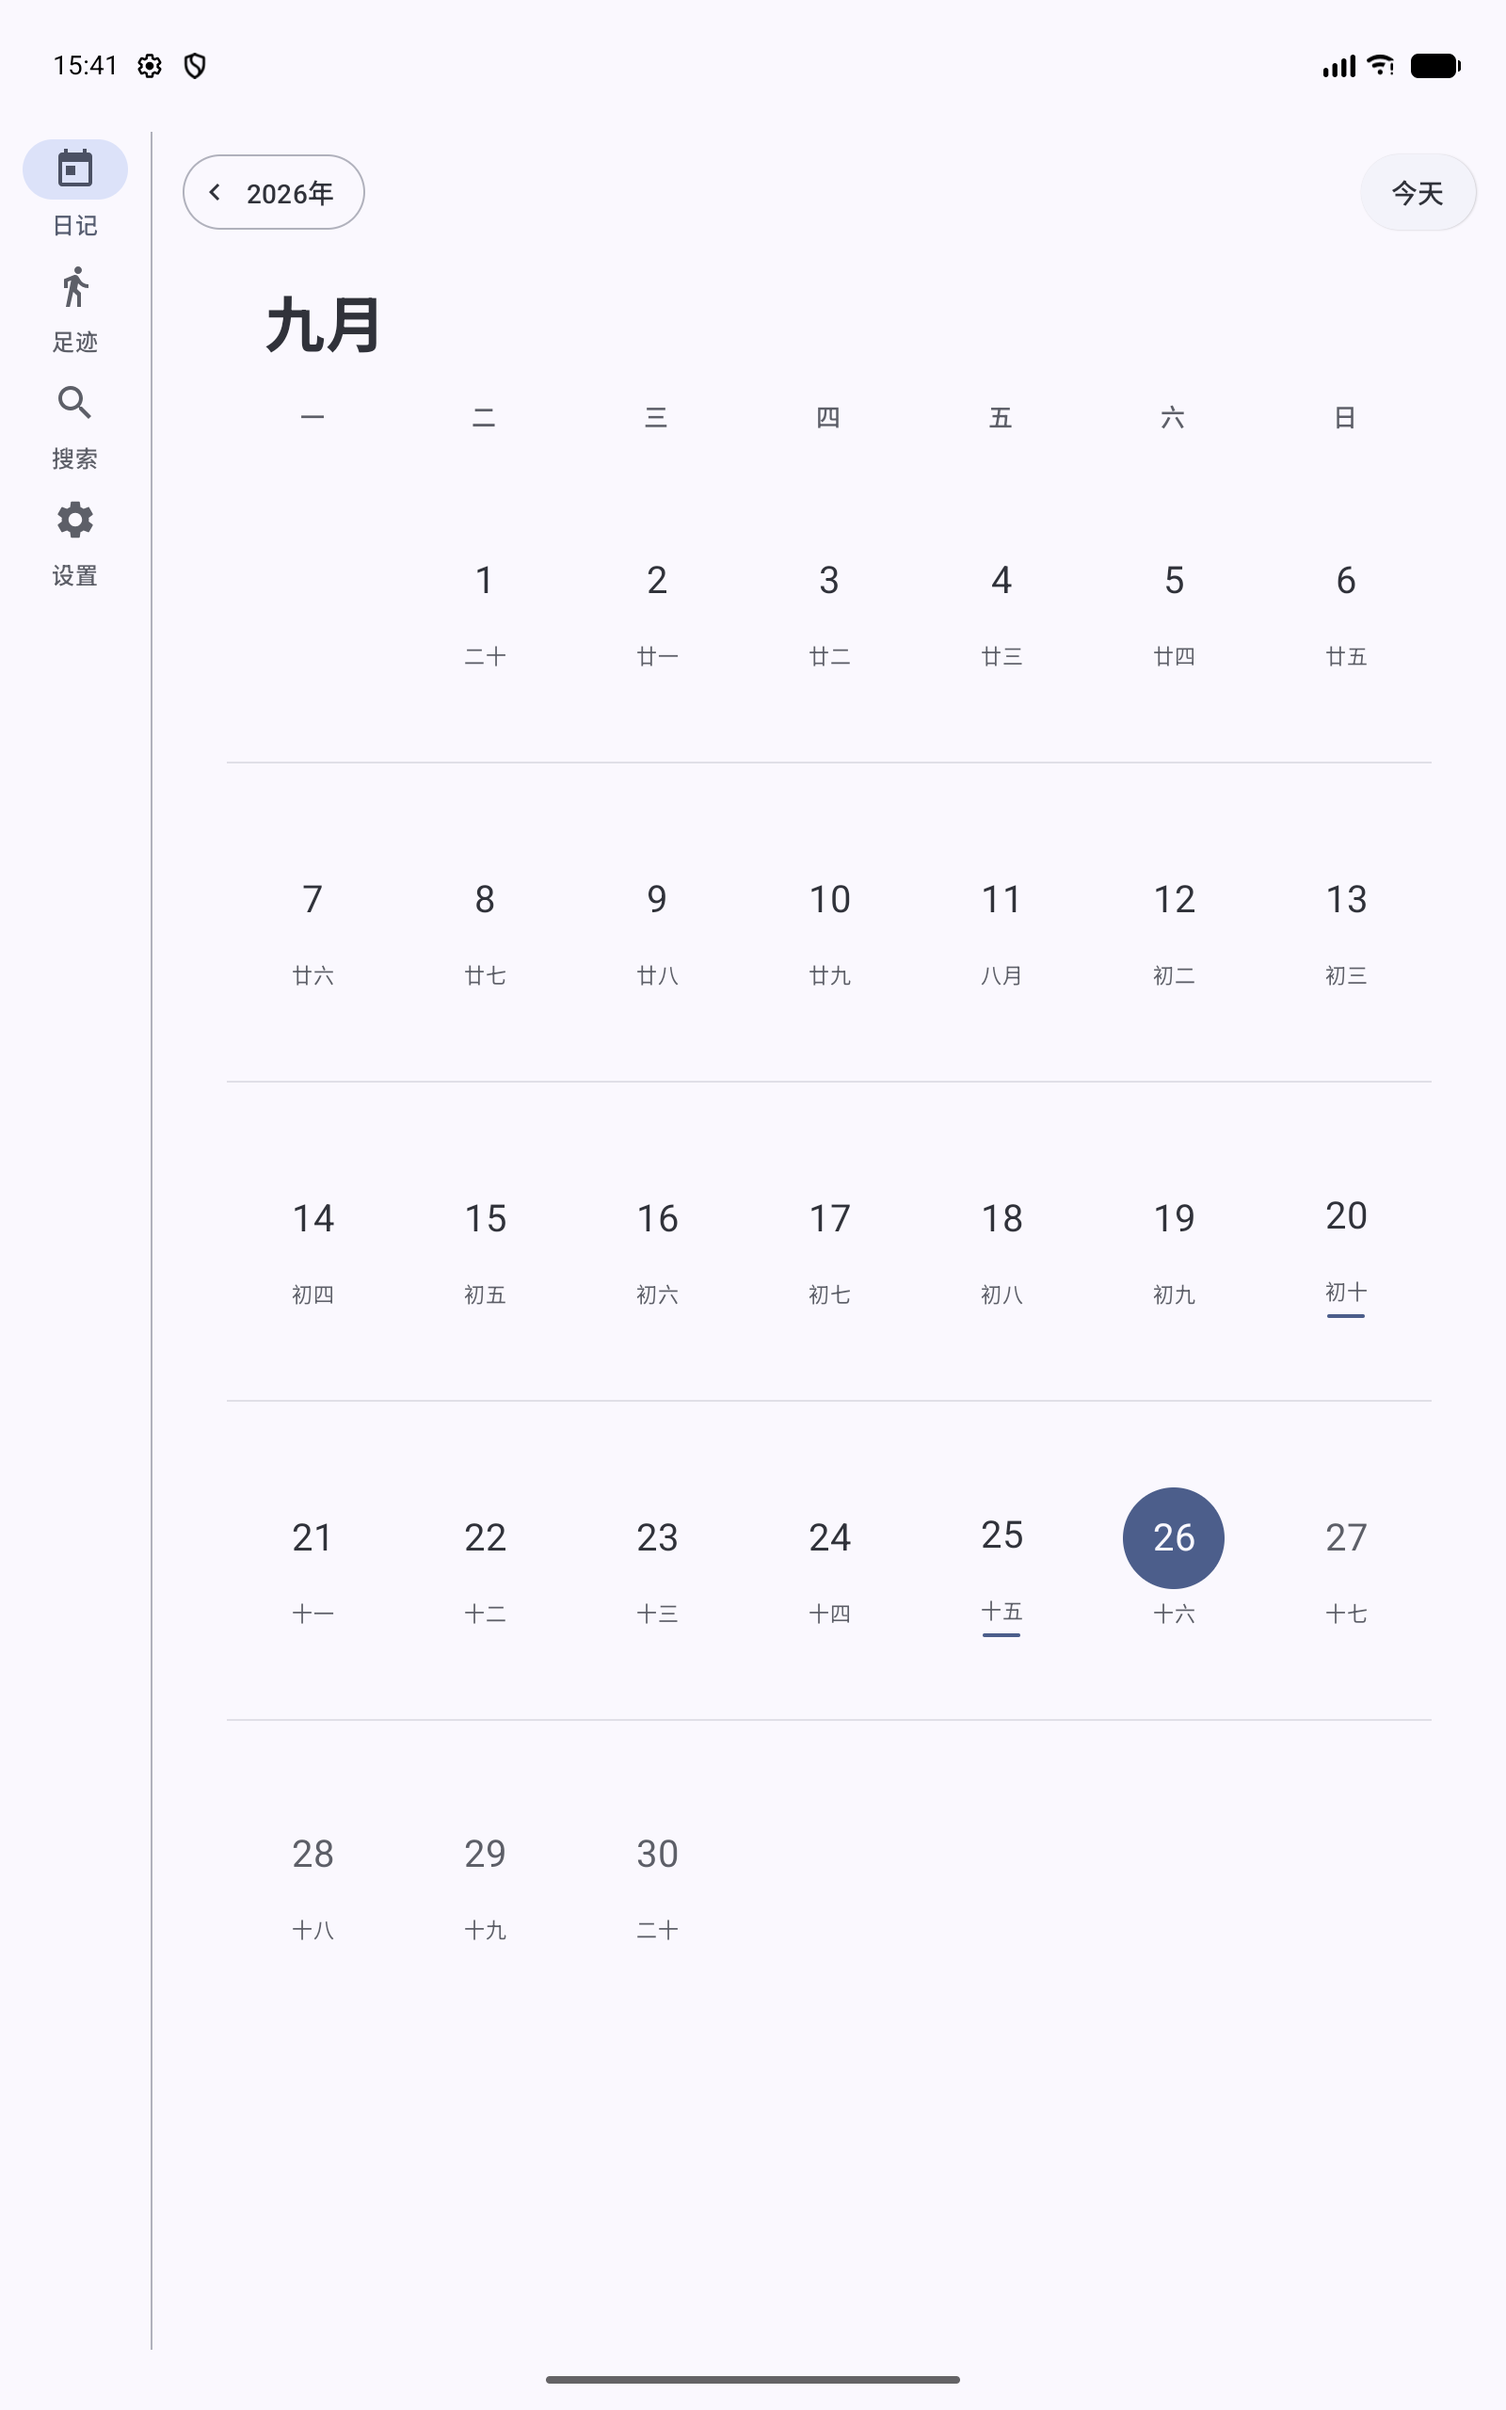
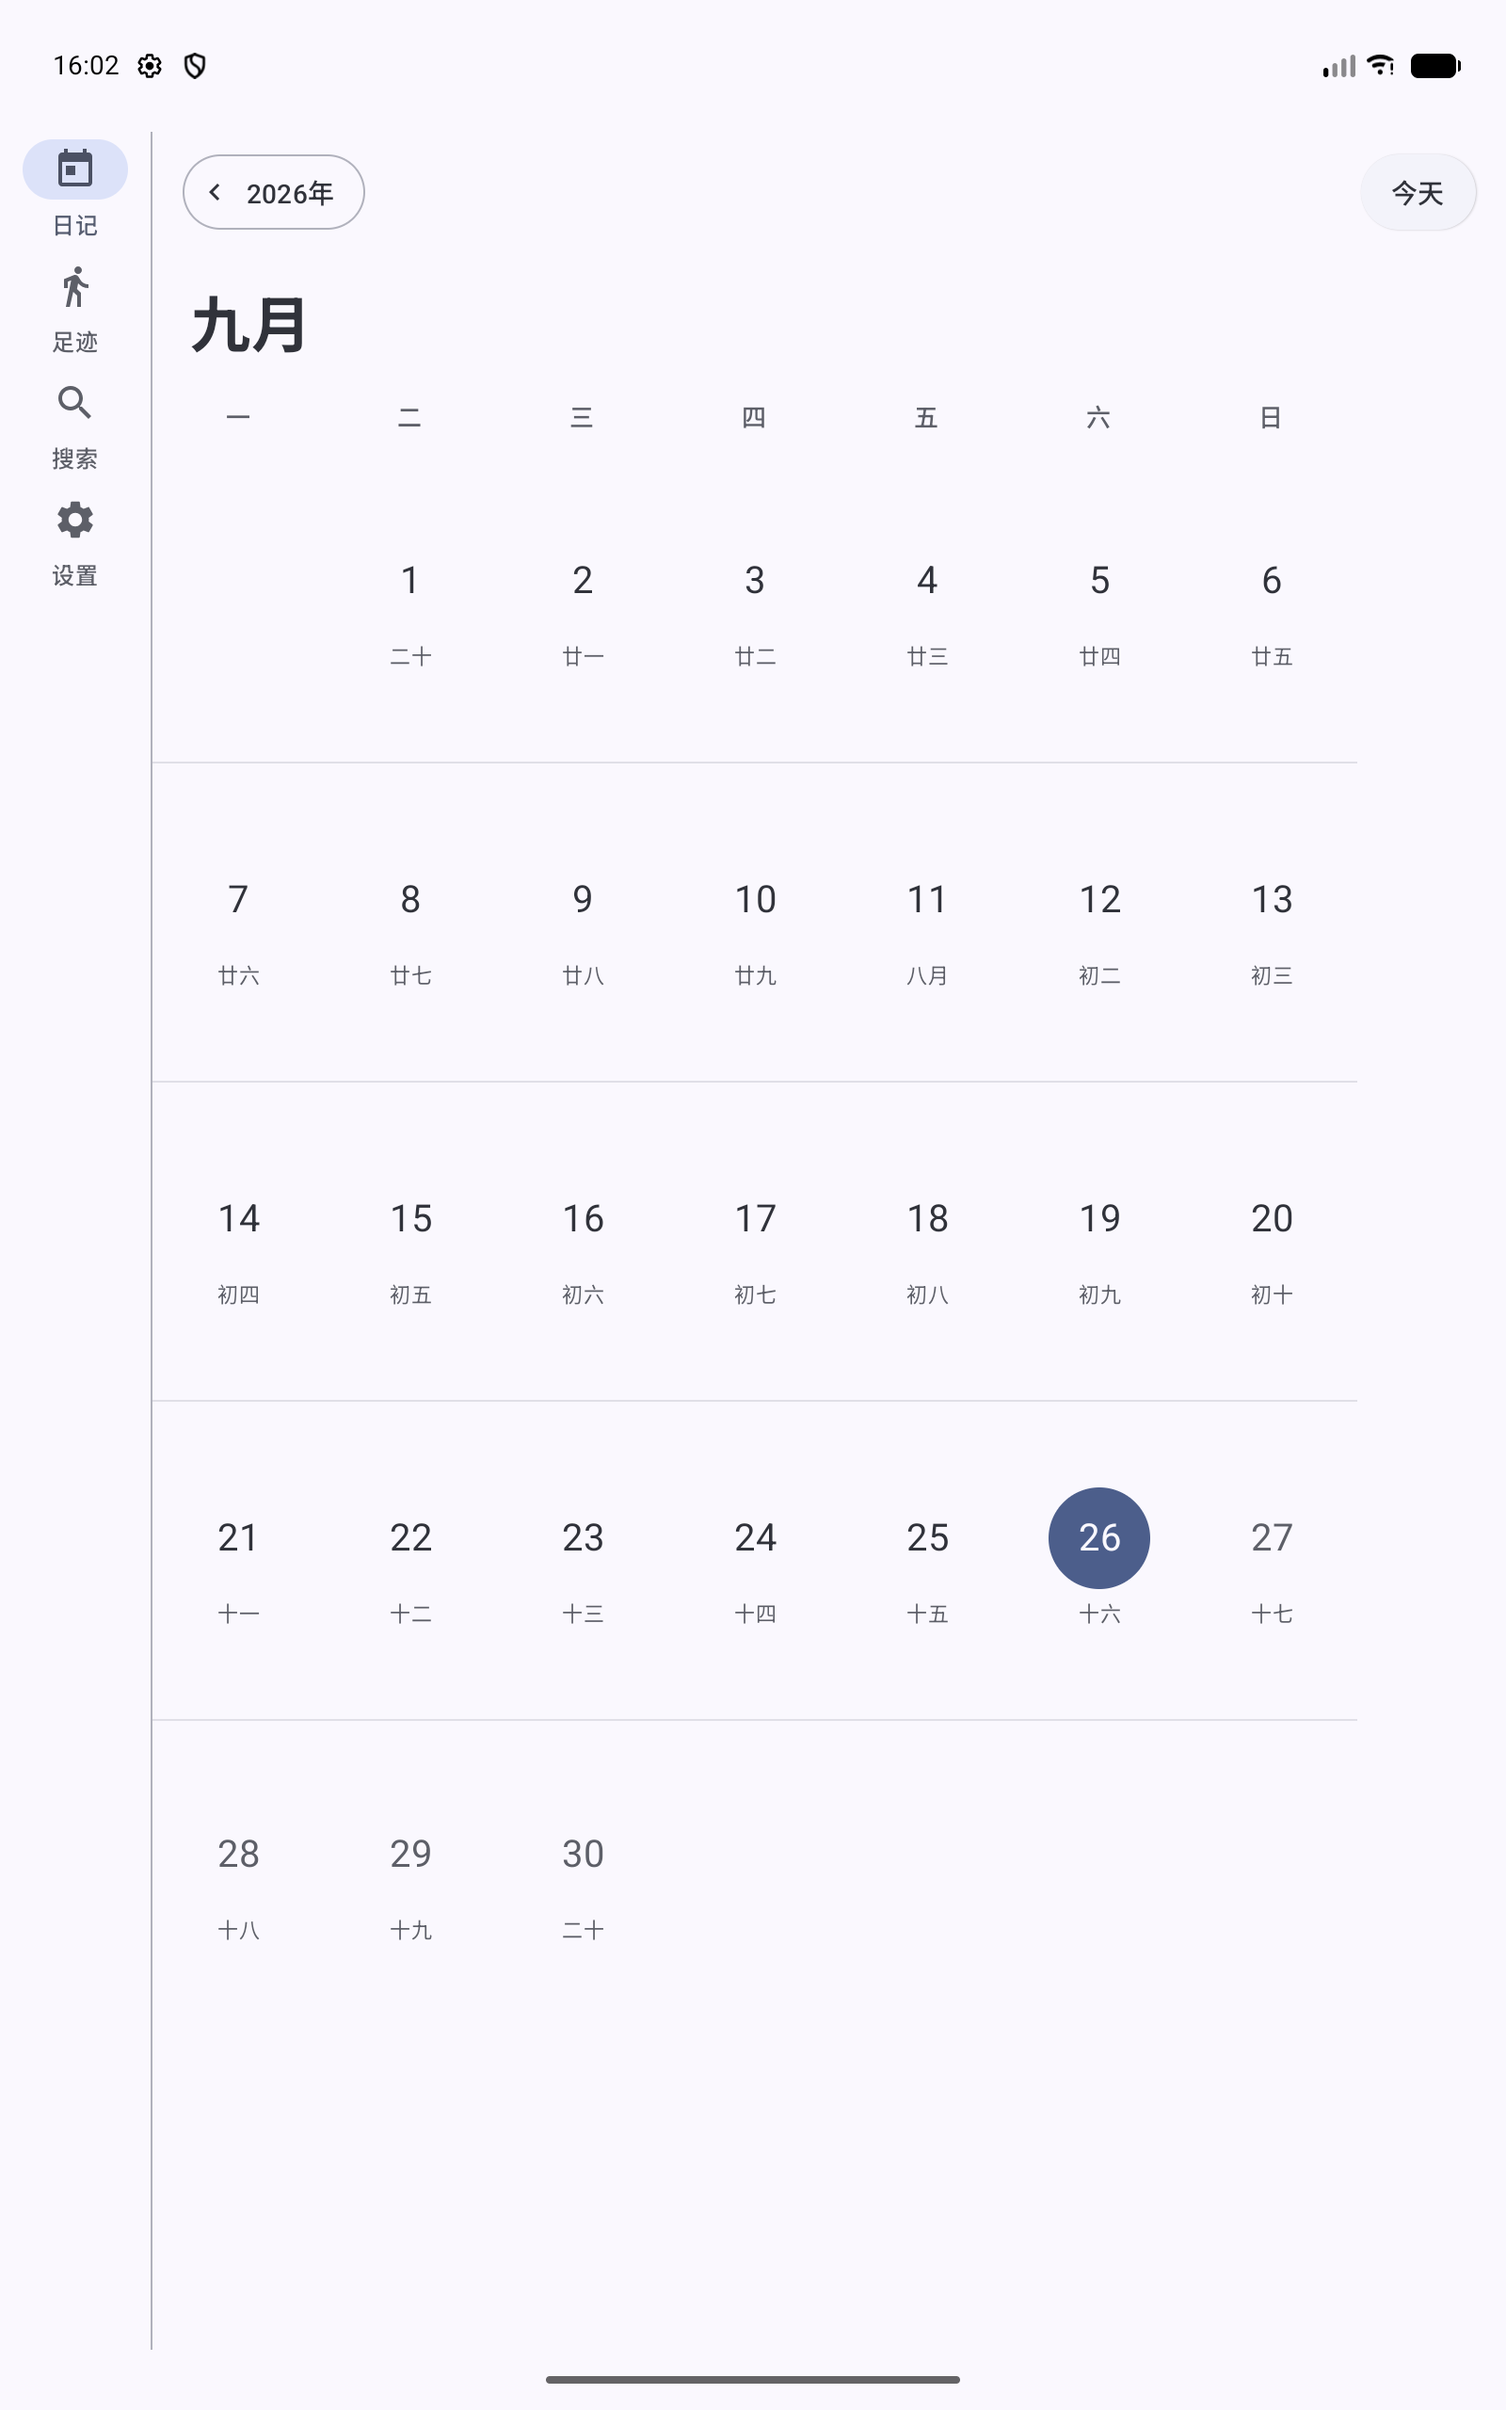
fix(home): 平板全量回归；修 PagerViewport 丢掉的居中对齐
改动累积了几轮（跟手翻页 / morph 两层 / 分栏阈值扣 rail / 两个面板），
这一轮把平板横竖屏与深色整体重跑：

- 平板横屏（1280×800）分栏：分隔线落在 rail 81 + 主栏 440 = **521dp**，
  与 `clamp(内容宽 × 0.46, 260, 440)` 完全一致（扣 rail 的改动生效）
- 分栏左栏上下滑翻月 → 十月，**右栏跟着走到 10月26日**（分栏翻月带走选中日），
  右栏正确显示未来日的空态与 `dark_mode` 图标
- 平板竖屏：不出分栏、日历限宽 640dp、深色配色正常
- 平板年历：与月历同一个限宽

**修掉一个自己引入的居中回归**
上一轮抽 `PagerViewport` 时，内层 Box 少了 `TopCenter` —— 日历与年历都是
限宽 `min(640, 内容宽)`，而那一层是整宽的，于是平板竖屏上日历**贴左边**、
右边空出一大块。三层 Box（视口 / 位移层 / 邻页）都补上居中。

证据存 docs/ui-audit/r4/06、07、39–41。
验证：clean assembleDebug + 385 条 JVM 单测（--rerun-tasks，0 失败）+ 两个跨端校验脚本。

diff --git a/app/src/main/java/com/cov/justdiary/ui/home/HomeScreen.kt b/app/src/main/java/com/cov/justdiary/ui/home/HomeScreen.kt
@@ -1001,12 +1001,17 @@ private fun PagerViewport(
             .fillMaxWidth()
             .height(bandH.dp)
             .clipToBounds(),
+        // ⚠ 每一页都要**自己居中**：日历与年历都限宽 `min(640, 内容宽)`，
+        // 而这里的 Box 是整宽的 —— 少了 `TopCenter`，宽屏（平板竖屏）上日历会贴左边，
+        // 右边空出一大块（实测回归：包了这一层之后丢的）。
+        contentAlignment = Alignment.TopCenter,
     ) {
         Box(
             modifier = Modifier
                 .fillMaxWidth()
                 .height(bandH.dp)
                 .graphicsLayer { translationY = offsetPx },
+            contentAlignment = Alignment.TopCenter,
         ) {
             if (showNext) {
                 Box(
@@ -1014,6 +1019,7 @@ private fun PagerViewport(
                         .fillMaxWidth()
                         .height(bandH.dp)
                         .graphicsLayer { translationY = pagePx },
+                    contentAlignment = Alignment.TopCenter,
                 ) { page(1) }
             }
             if (showPrev) {
@@ -1022,6 +1028,7 @@ private fun PagerViewport(
                         .fillMaxWidth()
                         .height(bandH.dp)
                         .graphicsLayer { translationY = -pagePx },
+                    contentAlignment = Alignment.TopCenter,
                 ) { page(-1) }
             }
             page(0)

diff --git a/docs/migration-progress.md b/docs/migration-progress.md
@@ -1259,6 +1259,22 @@ Rail 占 0–80dp、分隔线 80–81dp，共 81dp。后果：600–629dp 的横
 - 动作顺序原来是 取消 · **覆盖** · 跳过（破坏性的挤在中间、安全的占着最右确认位）。
   按 06 §2.2 改为 取消 · 跳过 · **覆盖（最右、error 色）**。
 
+### R4 第六轮：平板全量回归（横竖屏 + 深色）
+
+这一轮改过的东西太多（跟手翻页、morph 两层、分栏阈值扣 rail、两个面板），
+所以把平板横竖屏与深色整体重跑一遍。
+
+| 检查项 | 结果 |
+| --- | --- |
+| 平板横屏（1280×800）分栏 | 分隔线落在 **rail 81 + 主栏 440 = 521dp**，与 `clamp(内容宽×0.46,260,440)` 一致 |
+| 分栏左栏上下滑翻月 | 十月；**右栏跟着走到 10月26日**（分栏翻月带走选中日），且右栏正确显示未来日空态 |
+| 平板竖屏（800×1280） | 不出分栏；日历限宽 640dp；**深色正常** |
+| 平板年历 | 与月历同一个限宽 |
+
+**修掉一个自己引入的居中回归**：新抽的 `PagerViewport` 内层 Box 少了 `TopCenter` ——
+日历与年历都是限宽 `min(640, 内容宽)`，而那一层是整宽的，于是平板竖屏上日历**贴左**、
+右边空出一大块。三层 Box（视口 / 位移层 / 邻页）都补上居中。
+
 ### 已知遗留
 
 - 日记页（阅读 / 编辑 / 多选 / 分享）**未开工**，差距清单见
